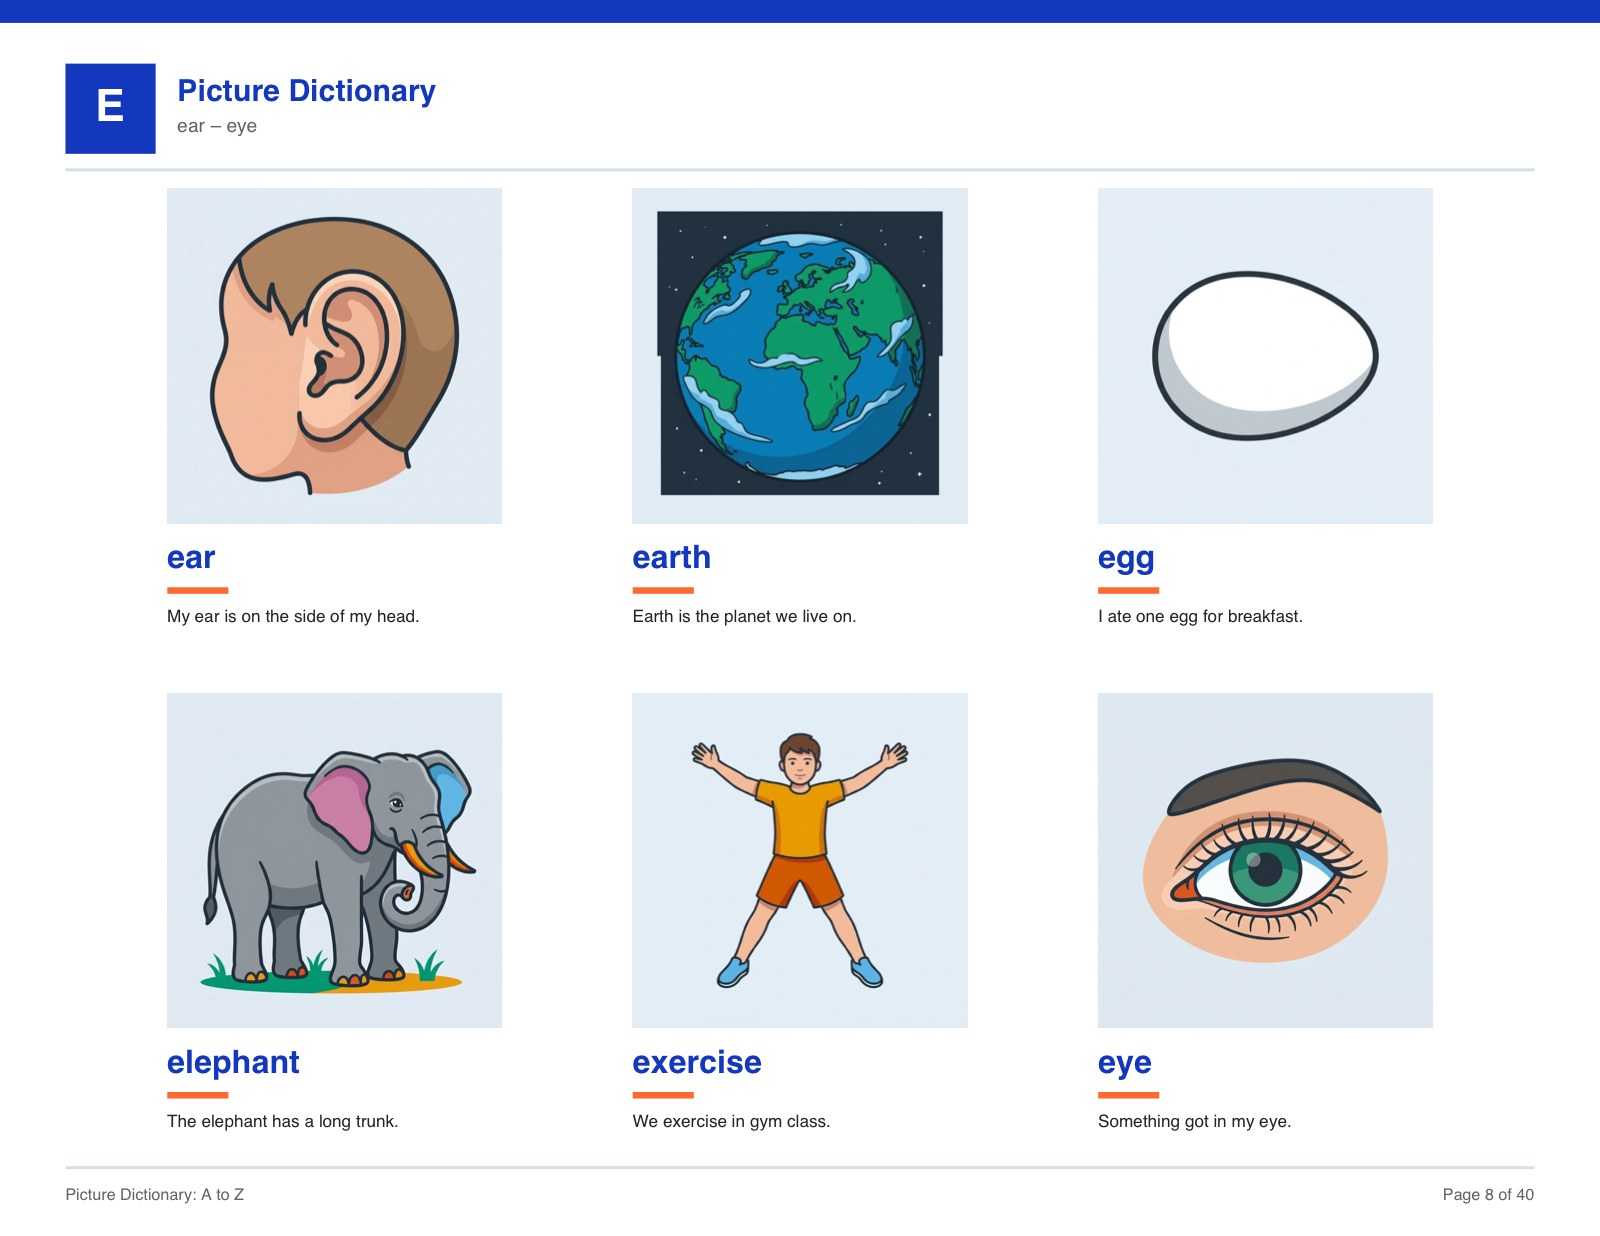
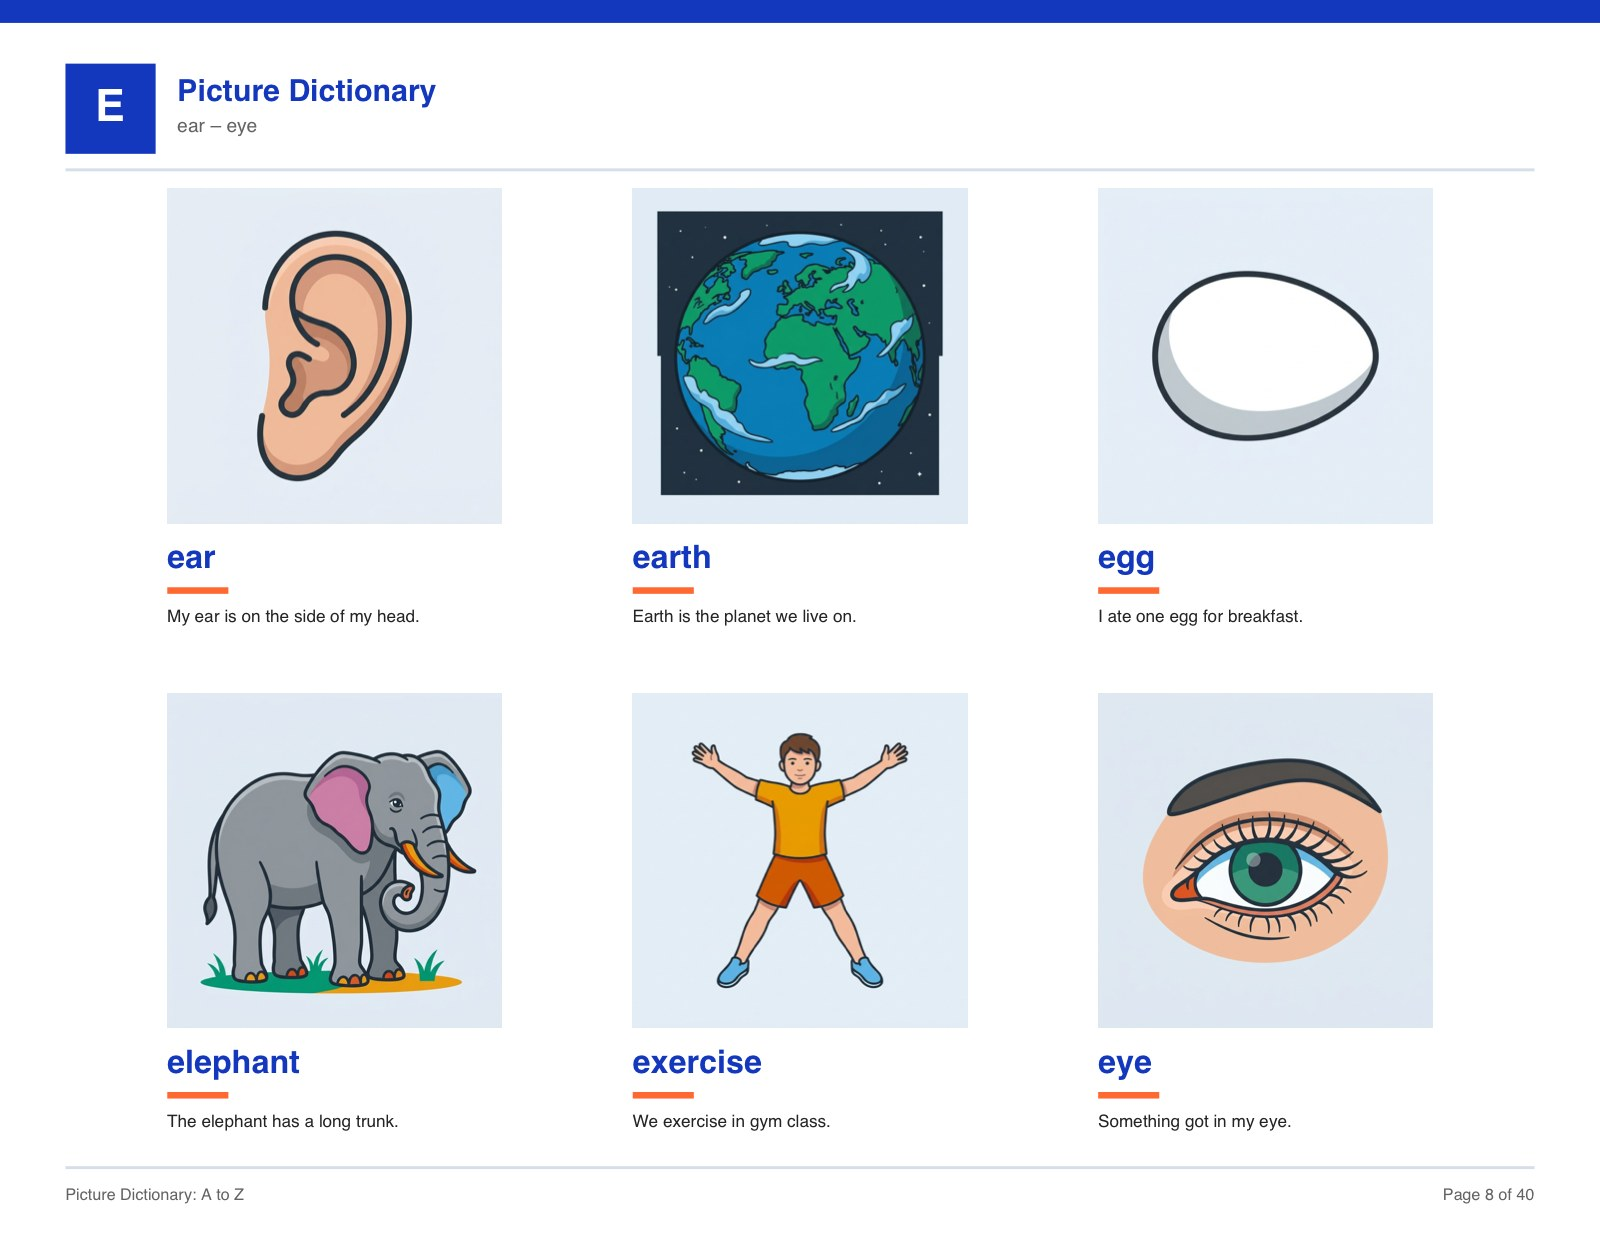
Detached ear; arrow pointing to dog's tail

Changed region(s): [[0.125, 0.1537, 0.3125, 0.3997]]

diff --git a/prompts/scenes.py b/prompts/scenes.py
@@ -86,9 +86,9 @@ SCENES = {
     # The ear came back far larger than a real ear relative to the head.
     # The hearing aid was removed at Brooke's request — the sentence in
     # make_words.py was changed to match, since it used to mention one.
-    # Cropped too tight it renders as a rectangular patch of skin pasted on the
-    # background. Keep the head's outline so it reads as a drawing, not a crop.
-    "ear": "a close side view of a teenager's head with the ear large and central, the curved outline of the cheek, jaw and hair drawn around it against the plain background, no hearing aid and no earring",
+    # Shown on a head, the head kept stealing the picture. Fully detached, like
+    # `arm` — the isolated-limb treatment is what actually reads here.
+    "ear": "one single human ear entirely on its own, drawn as one simple flat shape centred against the plain background, with no head, no face, no hair, no neck and no skin around it, and no hearing aid or earring",
     "earth": "the planet Earth seen from space, blue oceans and green continents",
     "egg": "a single white egg lying on its side by itself, with no egg cup, no bowl and nothing else in the picture",
     "elephant": "a grey elephant standing side-on with its trunk curled",
@@ -308,8 +308,9 @@ SCENES = {
     # whole dog makes the tail too small. Crop to the back half, side on.
     # Told to fill the frame the tail swallowed the dog and read as a flame.
     # The dog has to stay recognisable for the tail to mean anything.
-    # Left unstated, the restricted palette coloured the dog pink and green.
-    "tail": "a golden-brown dog standing side-on seen from close up, natural tan and brown fur all over, its whole body and hind legs clearly recognisable as a dog, with its long fluffy tail raised and curling upward as the largest feature",
+    # Cropping and scaling both failed to single out the tail, so the picture
+    # now points at it outright. This is the only arrow in the book.
+    "tail": "a golden-brown dog standing side-on with natural tan and brown fur, its long fluffy tail raised and curling upward, and one bold charcoal arrow in clear space beside the dog with its tip touching the tail",
     "teacher": "a teacher standing beside a whiteboard, facing the class",
     # Would otherwise be the same crop as `mouth`. The action distinguishes it.
     "teeth": "a teenager brushing their front teeth with a toothbrush, mouth open so the white teeth are the clear focus",
